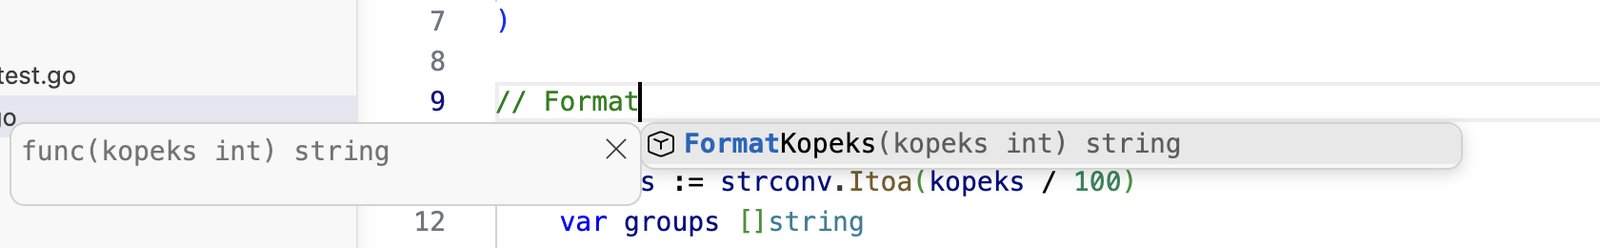
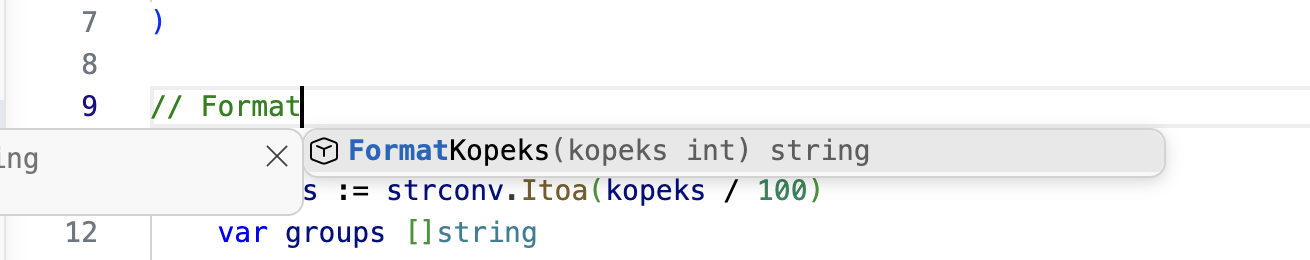
МДК.01.01 тема 04, ветка Go: последовательность глав и кадры
- 4.1: за расширением Go и gopls — назад в главу 2.2, а не вперёд в 4.3; ошибки при работе — ссылка на 4.3 §10 и 4.4
- 4.3: запуск staticcheck через go run объяснён на месте, без ссылки вперёд на 4.6; убрана итоговая таблица §4, повторявшая таблицу §1
- 4.2: пояснён fmt.Errorf в примере с any; 4.6 и 4.7: revive — со ссылкой на главу 4.10
- навигация ветки Go: 4.8 → 4.10 и 4.10 → 4.8, в обход 4.9 без Go-версии
- 4.10: кадр подсказки имени в комментарии переобрезан без обрывков проводника

diff --git a/mdk0101-razrabotka-modulei/lessons/04-docstrings-i-dokumentaciya/03-proverka-tipov.html b/mdk0101-razrabotka-modulei/lessons/04-docstrings-i-dokumentaciya/03-proverka-tipov.html
@@ -775,7 +775,7 @@ proba/main.go:16:3: self-assignment of total</pre>
           </table>
         </div>
         <p>Обозначения: ⚠ — замечание, — — уровень строку не отмечает. Таблица читается слева направо как лестница: компилятор собирает файл без ошибок, <code>go vet</code> находит два места, staticcheck — все три. Ни одно из этих мест не противоречит типам: <code>Printf</code> принимает аргументы любого типа, присваивание <code>int</code> в <code>int</code> законно, вызов функции без сохранения результата разрешён. Поэтому компилятор их не отмечает; их находят программы со списками типичных ошибок.</p>
-        <p>staticcheck в поставку Go не входит. Запустить его без установки можно так же, как pkgsite в главе 4.6:</p>
+        <p>staticcheck в поставку Go не входит, но запустить его можно без установки. Команда <code>go run</code> с адресом программы и пометкой <code>@latest</code> скачивает последнюю версию, собирает и запускает её; в <code>go.mod</code> проекта при этом ничего не добавляется:</p>
         <figure class="code code--out">
           <figcaption><span>Терминал</span><span>staticcheck на том же файле</span></figcaption>
 <pre>$ go run honnef.co/go/tools/cmd/staticcheck@latest ./proba
@@ -790,17 +790,7 @@ exit status 1</pre>
           <img src="img/vscode-go-ladder.png" alt="VS Code: proba/main.go с жёлтыми подчёркиваниями в строках 14 и 16, в панели Problems два предупреждения printf и assign">
           <figcaption>gopls подчеркнул жёлтым строки 14 и 16, в панели Problems два предупреждения с источниками <code>printf</code> и <code>assign</code> — это те же проверки, что выполняет <code>go vet</code>. Строку 12 gopls не отметил: правила staticcheck в нём по умолчанию выключены. Три точки под <code>i</code> в строке 15 — подсказка gopls, что цикл можно записать короче; замечанием она не считается и в панель Problems не попадает.</figcaption>
         </figure>
-        <div class="table-scroll">
-          <table>
-            <thead><tr><th>Уровень</th><th>Что проверяет</th><th>Когда запускают</th></tr></thead>
-            <tbody>
-              <tr><td><code>go build</code></td><td>Всё, что противоречит типам и правилам языка: неверный аргумент, неиспользованная переменная, лишний импорт</td><td>Всегда: эта команда и собирает программу</td></tr>
-              <tr><td><code>go vet</code></td><td>Типичные ошибки в коде, который собирается: форматы <code>Printf</code>, присваивание самому себе, неверные имена примеров</td><td>Перед коммитом и в проверках запроса на слияние — режим курса</td></tr>
-              <tr><td>staticcheck</td><td>То же и сотни других правил: неиспользованные результаты, лишний код, устаревшие функции</td><td>Можно включить для себя: замечания полезные, но в проверках при сдаче их нет</td></tr>
-            </tbody>
-          </table>
-        </div>
-        <p>В курсе обязательны <code>go build</code> и <code>go vet</code>: обе команды входят в Go и не требуют установки, а gopls в редакторе показывает почти то же самое. После опыта удалите папку <code>proba</code> или верните в неё файл с двумя вызовами из §2 — он нужен в следующем параграфе.</p>
+        <p>В курсе обязательны <code>go build</code> и <code>go vet</code>: обе команды входят в Go и не требуют установки, а gopls в редакторе показывает почти то же самое. staticcheck можно запускать для себя: его замечания полезные, но в проверках при сдаче их нет. После опыта удалите папку <code>proba</code> или верните в неё файл с двумя вызовами из §2 — он нужен в следующем параграфе.</p>
 
         <h2 id="g5"><span class="sec">§5</span>go build и go vet в терминале</h2>
         <p>gopls нашёл обе ошибки, но работает только у того, кто пишет код в VS Code с расширением Go. Для проверки при сдаче работы нужны команды, которые одинаково выполняются на любом компьютере и на сервере репозитория. Это <code>go build</code> и <code>go vet</code>. Верните в <code>proba/main.go</code> оба неверных вызова из §2 и сохраните файл.</p>

diff --git a/mdk0101-razrabotka-modulei/lessons/04-docstrings-i-dokumentaciya/01-annotacii-tipov.html b/mdk0101-razrabotka-modulei/lessons/04-docstrings-i-dokumentaciya/01-annotacii-tipov.html
@@ -757,7 +757,7 @@ proba/main.go:10:13: assignment mismatch: 1 variable but services.CalculateAvera
         </div>
 
         <h2 id="g6"><span class="sec">§6</span>Подсказка редактора</h2>
-        <p>Компилятор проверяет типы при сборке. Редактор использует те же типы раньше — пока код читают и пишут. В VS Code этим занимается расширение <b>Go</b>: оно запускает программу <span class="term">gopls</span> (произносится «гоу-плиз»; <i>ls</i> в имени — от <i>language server</i>) — языковой сервер Go. Языковой сервер — программа, которая постоянно разбирает код проекта и отвечает редактору: какой тип у имени под курсором, где объявлена функция, какие ошибки в файле. Установка расширения и gopls показана по шагам в главе 4.3; если расширение уже стоит, опыт можно повторить сразу.</p>
+        <p>Компилятор проверяет типы при сборке. Редактор использует те же типы раньше — пока код читают и пишут. В VS Code этим занимается расширение <b>Go</b>: оно запускает программу <span class="term">gopls</span> (произносится «гоу-плиз»; <i>ls</i> в имени — от <i>language server</i>) — языковой сервер Go. Языковой сервер — программа, которая постоянно разбирает код проекта и отвечает редактору: какой тип у имени под курсором, где объявлена функция, какие ошибки в файле. Расширение и gopls ставились в <a href="../02-struktura-python-proekta/02-vscode.html">главе 2.2</a>, ветка Go; если их нет, установка по шагам показана в главе 4.3, §3.</p>
         <p>Подсказку вызывают наведением указателя на имя или клавишами: курсор на имя, затем <kbd><span data-os="win linux">Ctrl</span><span data-os="mac">Cmd</span></kbd> + <kbd>K</kbd> и <kbd><span data-os="win linux">Ctrl</span><span data-os="mac">Cmd</span></kbd> + <kbd>I</kbd>. Откройте <code>main.go</code>, найдите строку 17 — <code>revenue, err := services.RevenueByWaiter(orders, 0)</code> — и наведите указатель на <code>RevenueByWaiter</code>.</p>
         <figure class="shot">
           <img src="img/vscode-go-hover-call.png" alt="Подсказка VS Code на вызове services.RevenueByWaiter: func services.RevenueByWaiter(orders []domain.Order, top int) ([]services.WaiterRevenue, error)">
@@ -798,7 +798,7 @@ proba/main.go:10:13: assignment mismatch: 1 variable but services.CalculateAvera
           </div>
           <div class="myth">
             <div class="myth__no"><b>Обычно думают</b>Если программа собралась, ошибок типов в ней не будет и при работе.</div>
-            <div class="myth__yes"><b>На самом деле</b>Компилятор проверяет то, что видно в тексте. Деление на ноль, выход за границу среза, обращение через пустой указатель случаются при работе. Эти случаи разобраны в главе 4.3.</div>
+            <div class="myth__yes"><b>На самом деле</b>Компилятор проверяет то, что видно в тексте. Деление на ноль, выход за границу среза, обращение через пустой указатель случаются при работе. Эти случаи перечислены в главе 4.3, §10, а примеры с ними — в главе 4.4.</div>
           </div>
         </div>
 

diff --git a/mdk0101-razrabotka-modulei/lessons/04-docstrings-i-dokumentaciya/02-tipy-v-annotaciyah.html b/mdk0101-razrabotka-modulei/lessons/04-docstrings-i-dokumentaciya/02-tipy-v-annotaciyah.html
@@ -646,11 +646,11 @@ sortOrders(orders, utils.NormalizeName) <span class="c">// не подходит
 	<span class="k">case</span> <span class="k">string</span>:
 		<span class="k">return</span> strconv.Atoi(v)        <span class="c">// здесь v — string</span>
 	<span class="k">default</span>:
-		<span class="k">return</span> <span class="n">0</span>, fmt.Errorf(<span class="s">"неизвестный тип суммы: %T"</span>, v)
+		<span class="k">return 0, fmt.Errorf("неизвестный тип суммы: %T", v)
 	}
 }</pre>
         </figure>
-        <p>Внутри каждой ветки <code>case</code> переменная <code>v</code> получает тип этой ветки, и компилятор снова проверяет код по нему. Опасна короткая запись <code>value.(int)</code> без проверки: если внутри строка, программа при работе остановится с сообщением <code>interface conversion: interface {} is string, not int</code>. Компилятор такую ошибку заранее не находит, потому что тип значения внутри <code>any</code> известен только при работе. Безопасная форма — с признаком: <code>n, ok := value.(int)</code>; при несовпадении <code>ok</code> будет <code>false</code>, а <code>n</code> — нулём.</p>
+        <p>Внутри каждой ветки <code>case</code> переменная <code>v</code> получает тип этой ветки, и компилятор снова проверяет код по нему. В ветке <code>default</code> пришёл тип, которого нет в перечне: <code>fmt.Errorf</code> создаёт ошибку с текстом по шаблону, как <code>fmt.Printf</code>, и <code>%T</code> подставляет в него название пришедшего типа. Опасна короткая запись <code>value.(int)</code> без проверки: если внутри строка, программа при работе остановится с сообщением <code>interface conversion: interface {} is string, not int</code>. Компилятор такую ошибку заранее не находит, потому что тип значения внутри <code>any</code> известен только при работе. Безопасная форма — с признаком: <code>n, ok := value.(int)</code>; при несовпадении <code>ok</code> будет <code>false</code>, а <code>n</code> — нулём.</p>
         <p>Поэтому <code>any</code> ставят только там, где тип действительно неизвестен заранее, например при разборе произвольного JSON. В работах курса <code>any</code> не используется.</p>
 
         <h2 id="g9"><span class="sec">§9</span>Переменные и нулевые значения</h2>

diff --git a/mdk0101-razrabotka-modulei/lessons/04-docstrings-i-dokumentaciya/10-vs-code.html b/mdk0101-razrabotka-modulei/lessons/04-docstrings-i-dokumentaciya/10-vs-code.html
@@ -616,7 +616,7 @@ question mark, or exclamation point</pre>
         <p>Третья строка таблицы — то, что нужно в начале каждого комментария. Наберите над функцией <code>//</code>, пробел и первые буквы её имени — gopls предложит имя из кода:</p>
         <figure class="shot">
           <img src="img/vscode-go-comment-complete.png" alt="VS Code: над func FormatKopeks набрано // Format, в списке подсказок FormatKopeks(kopeks int) string">
-          <figcaption>Второй архив, <code>internal/utils/formatter.go</code>. В строке 9 набрано <code>// Format</code>, и в списке подсказок — <code>FormatKopeks(kopeks int) string</code>, функция, объявленная строкой ниже. Слева — подпись выбранного пункта. <kbd>Enter</kbd> вставит имя, и останется дописать действие: «FormatKopeks переводит сумму…».</figcaption>
+          <figcaption>Второй архив, <code>internal/utils/formatter.go</code>. В строке 9 набрано <code>// Format</code>, и в списке подсказок — <code>FormatKopeks(kopeks int) string</code>, функция, объявленная строкой ниже. <kbd>Enter</kbd> вставит имя, и останется дописать действие: «FormatKopeks переводит сумму…».</figcaption>
         </figure>
         <p>Подсказка избавляет от опечатки в имени. Если имя набрано с опечаткой, revive сочтёт, что комментарий начинается не с имени объявления, и выдаст замечание, разобранное в §6.</p>
 
@@ -873,7 +873,7 @@ main.go:1:1: should have a package comment</pre>
           </ol>
         </div>
 
-        <div class="pager"><a href="09-razbor-sluchaev.html">← 4.9 Разбор случаев</a><a href="11-praktika-i-dz.html">4.11 Практика и домашнее задание →</a></div>
+        <div class="pager"><a href="08-formaty.html">← 4.8 Разметка и примеры</a><a href="11-praktika-i-dz.html">4.11 Практика и домашнее задание →</a></div>
         </div>
 
         <div class="colophon">

diff --git a/mdk0101-razrabotka-modulei/lessons/04-docstrings-i-dokumentaciya/07-chto-takoe-dokstring.html b/mdk0101-razrabotka-modulei/lessons/04-docstrings-i-dokumentaciya/07-chto-takoe-dokstring.html
@@ -501,7 +501,7 @@ func NormalizeName(name string) string
 
 func NormalizeName(name string) string</pre>
             </figure>
-            <p class="demo__verdict"><b>Обычный комментарий</b>Пустая строка оторвала комментарий от объявления. Программа собирается и работает по-прежнему, ошибки нет, а описания нет нигде: <code>go doc</code> печатает одну подпись, подсказка редактора пустая. Найти такое место помогает <code>revive</code>: он сообщит, что у <code>NormalizeName</code> нет комментария.</p>
+            <p class="demo__verdict"><b>Обычный комментарий</b>Пустая строка оторвала комментарий от объявления. Программа собирается и работает по-прежнему, ошибки нет, а описания нет нигде: <code>go doc</code> печатает одну подпись, подсказка редактора пустая. Найти такое место помогает программа <code>revive</code> из главы 4.10: она сообщит, что у <code>NormalizeName</code> нет комментария.</p>
           </div>
         </div>
         <p>Разница видна только инструментам: текст в файле на месте, и человек, открывший файл, его прочитает. Тот, кто вызывает функцию из другого пакета и смотрит подсказку, описания не увидит.</p>

diff --git a/mdk0101-razrabotka-modulei/lessons/04-docstrings-i-dokumentaciya/06-vidy-dokumentacii.html b/mdk0101-razrabotka-modulei/lessons/04-docstrings-i-dokumentaciya/06-vidy-dokumentacii.html
@@ -531,7 +531,7 @@
           <ul class="why__list">
             <li><b>Вызов функции без чтения её тела.</b> Комментарий документации виден в подсказке редактора в момент вызова, поэтому проверять поведение по исходнику приходится реже.</li>
             <li><b>Передача кода другому человеку.</b> Когда пакет передают другому разработчику или смежной команде, описания экспортируемых имён избавляют от разбора кода построчно.</li>
-            <li><b>Проверка на стороне инструментов.</b> Отсутствие комментария у экспортируемого имени находит программа <code>revive</code>. Если её запуск добавлен в проверки запроса на слияние, замечание попадает туда так же, как ошибка сборки.</li>
+            <li><b>Проверка на стороне инструментов.</b> Отсутствие комментария у экспортируемого имени находит программа <code>revive</code> — она разобрана в главе 4.10. Если её запуск добавлен в проверки запроса на слияние, замечание попадает туда так же, как ошибка сборки.</li>
           </ul>
         </div>
 

diff --git a/mdk0101-razrabotka-modulei/lessons/04-docstrings-i-dokumentaciya/08-formaty.html b/mdk0101-razrabotka-modulei/lessons/04-docstrings-i-dokumentaciya/08-formaty.html
@@ -785,7 +785,7 @@ FAIL</pre>
           </ol>
         </div>
 
-        <div class="pager"><a href="07-chto-takoe-dokstring.html">← 4.7 Комментарий документации</a><a href="09-razbor-sluchaev.html">4.9 Разбор случаев →</a></div>
+        <div class="pager"><a href="07-chto-takoe-dokstring.html">← 4.7 Комментарий документации</a><a href="10-vs-code.html">4.10 VS Code и revive →</a></div>
         </div>
 
         <div class="colophon">

diff --git a/mdk0101-razrabotka-modulei/lessons/04-docstrings-i-dokumentaciya/shots/crop_go.py b/mdk0101-razrabotka-modulei/lessons/04-docstrings-i-dokumentaciya/shots/crop_go.py
@@ -22,7 +22,7 @@ FRAMES = {
     "go-project-run": (0, 0, 1240, 780),       # 4.6 — проект после запуска
     "go-quickfix": (345, 320, 1240, 545),      # 4.5 §5 — Fill in return values
     "go-final": (345, 40, 1240, 255),          # 4.5 §8 — четыре команды на итоге
-    "go-comment-complete": (160, 215, 1000, 345),  # 4.10 §1 — имя в комментарии
+    "go-comment-complete": (345, 215, 1000, 345),  # 4.10 §1 — имя в комментарии
     "go-settings-json": (345, 25, 1240, 182),  # 4.10 §5 — настройка линтера
     "go-revive-problems": (345, 460, 1240, 670),  # 4.10 §5 — замечания revive
     "go-checks": (345, 470, 1240, 635),        # 4.11 §3 — vet, revive, тесты
